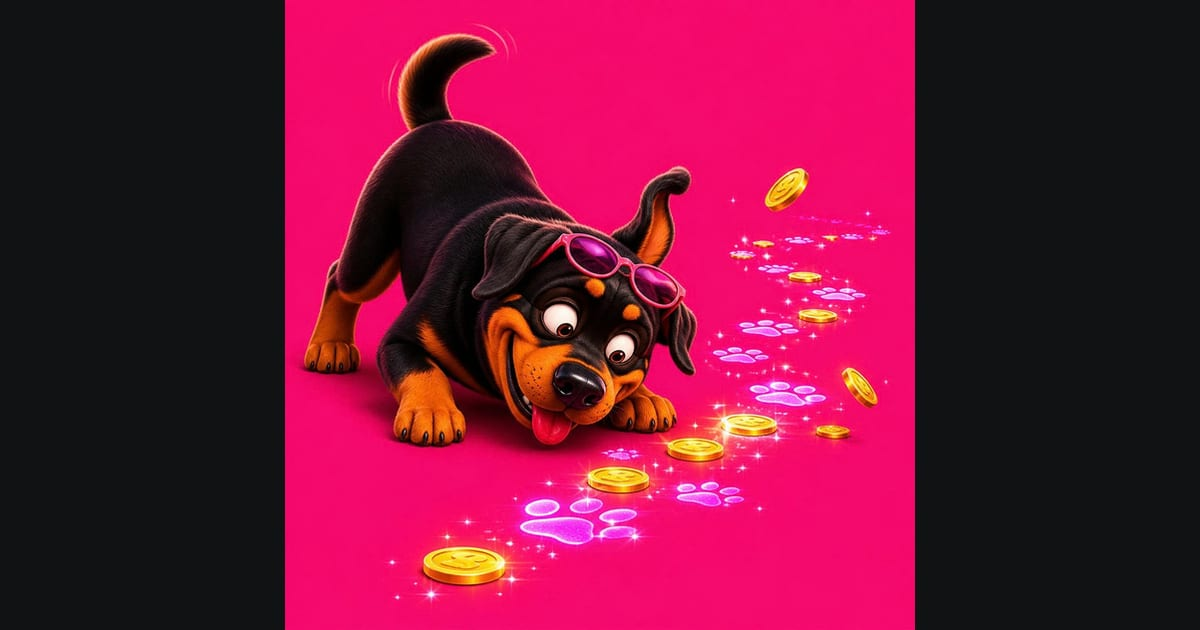
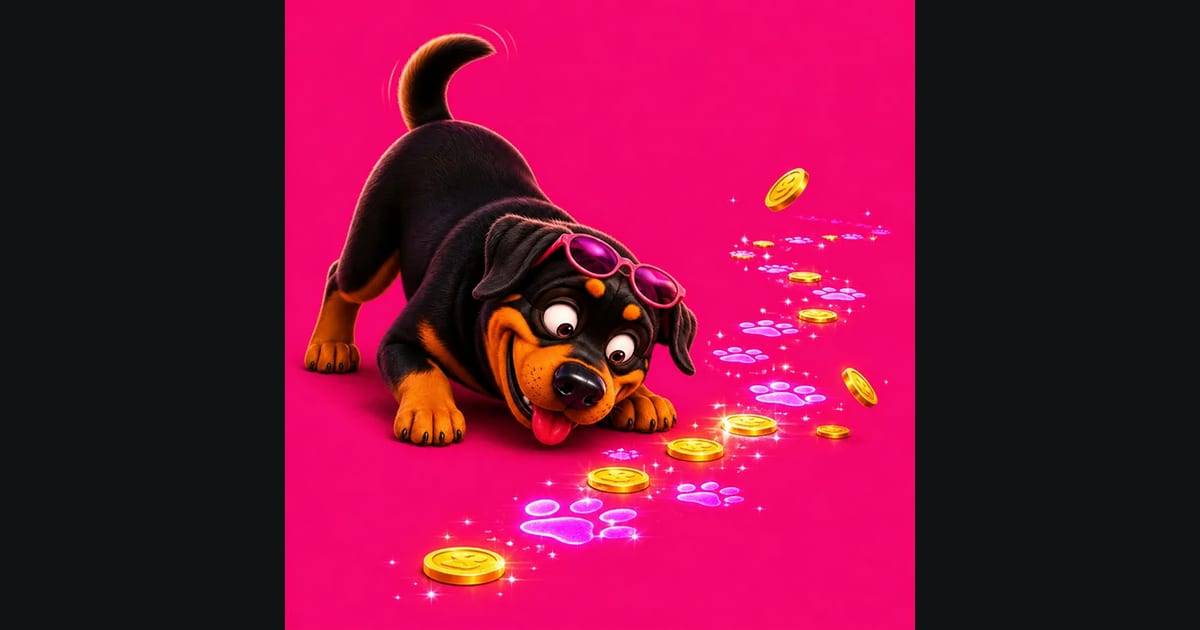
Replace CTA mascot artwork and fix mobile CTA spacing
New trail illustration (fixes the three-ears artwork), 800px for
sharper display; regenerated social share image; CTA copy no longer
stretches to 480px tall on phones.

diff --git a/index.html b/index.html
@@ -246,7 +246,7 @@
           <a class="btn btn--outline-dark" href="mailto:affiliates@slotino.bg">affiliates@slotino.bg</a>
         </div>
       </div>
-      <div class="cta__art"><picture><source srcset="assets/img/mascot-trail.webp" type="image/webp"><img src="assets/img/mascot-trail.jpg" width="632" height="632" alt="Ротвайлерът на Slotino души следа от златни монети" loading="lazy" decoding="async"></picture></div>
+      <div class="cta__art"><picture><source srcset="assets/img/mascot-trail.webp" type="image/webp"><img src="assets/img/mascot-trail.jpg" width="800" height="800" alt="Ротвайлерът на Slotino души следа от златни монети" loading="lazy" decoding="async"></picture></div>
     </div>
   </section>
 </main>

diff --git a/assets/css/styles.css b/assets/css/styles.css
@@ -363,3 +363,4 @@ picture{display:contents}
 @media (hover:hover) and (pointer:fine){.scene:hover .scene__dog{transform:translateY(-8px) scale(1.03)}}
 /* source art is cropped at the sides/bottom of the float ring: fade the hard edges into the scene */
 .dog-bob{-webkit-mask-image:linear-gradient(to right,transparent 0,#000 12%,#000 88%,transparent 100%),linear-gradient(to top,transparent 0,#000 18%);-webkit-mask-composite:source-in;mask-image:linear-gradient(to right,transparent 0,#000 12%,#000 88%,transparent 100%),linear-gradient(to top,transparent 0,#000 18%);mask-composite:intersect}
+@media (max-width:600px){.cta__copy{flex:none}}
